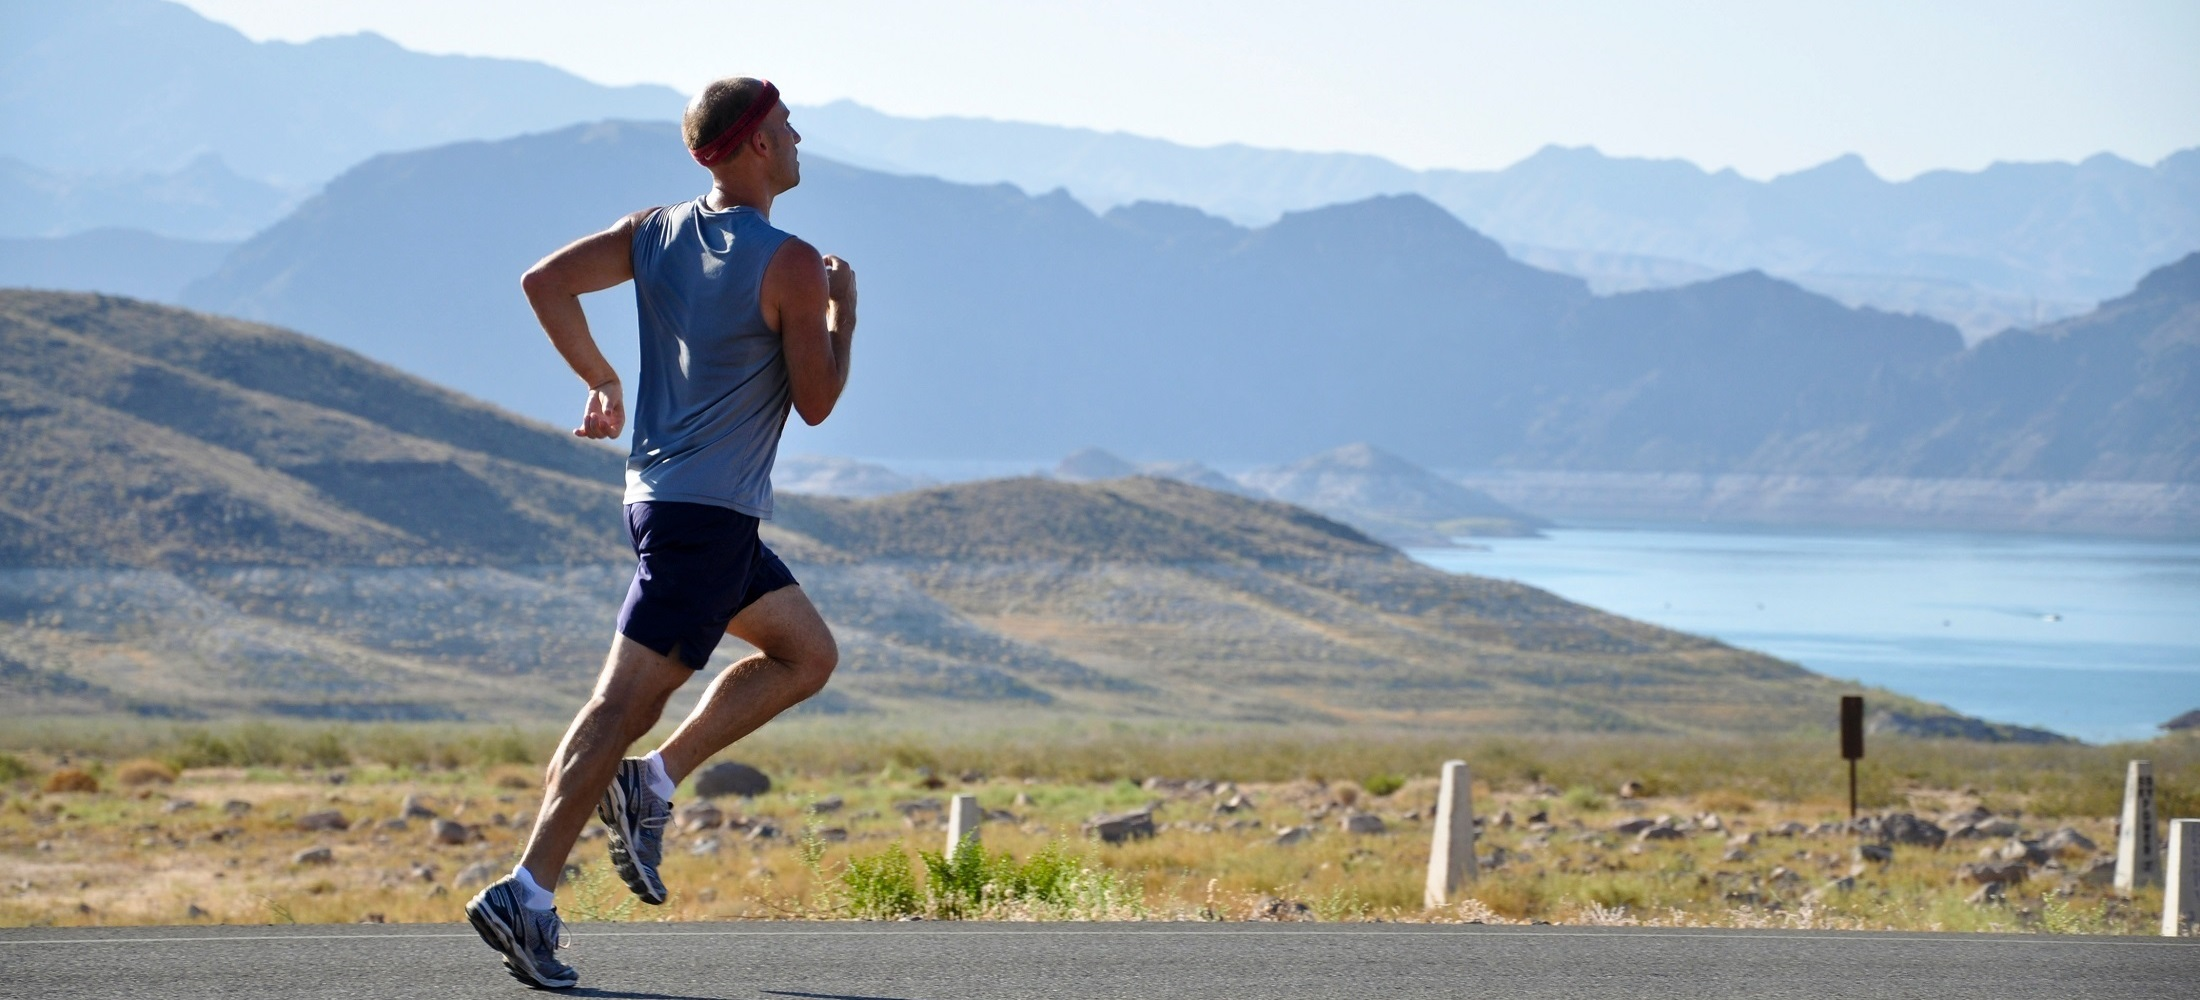
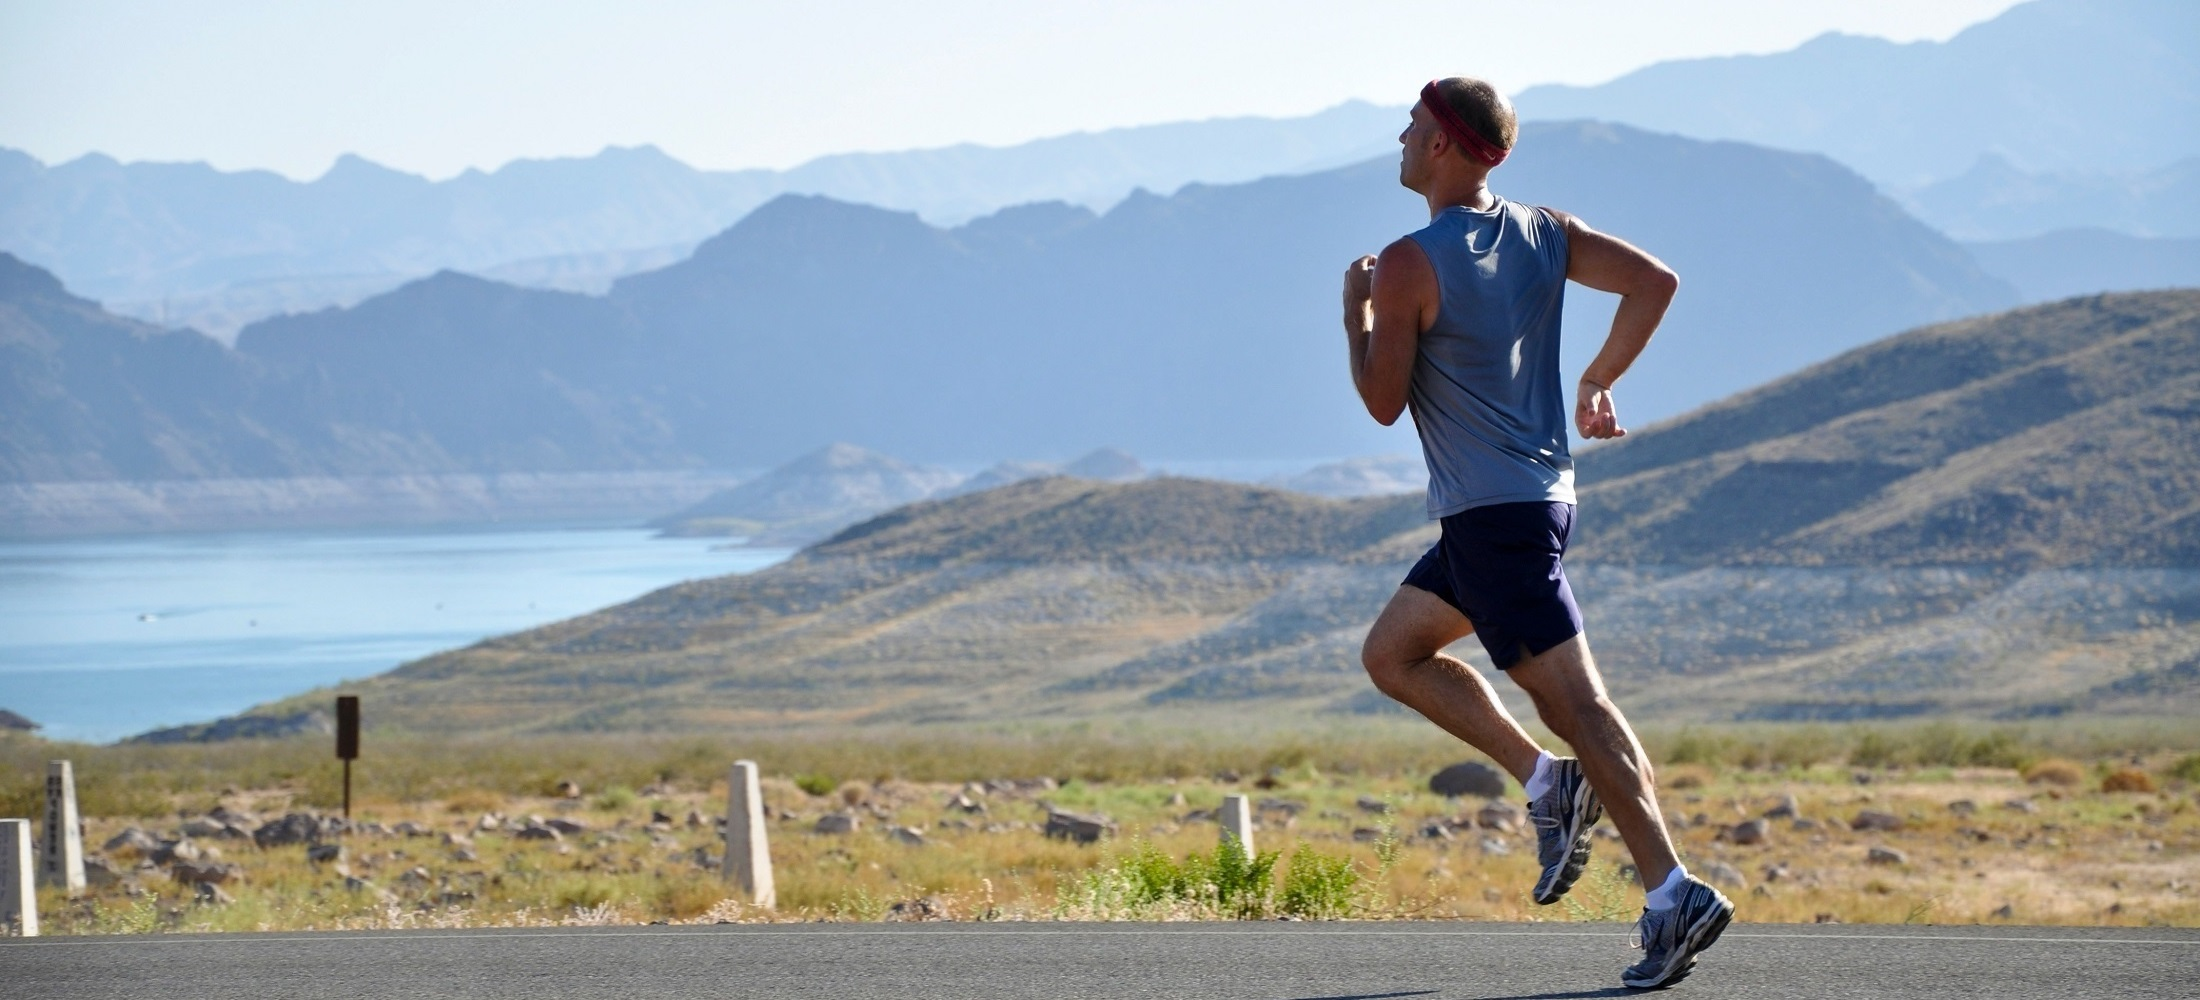
Tiny styling change to font page

diff --git a/workspace/web-client-angular/src/app/landing/initial/initial.component.html b/workspace/web-client-angular/src/app/landing/initial/initial.component.html
@@ -2,18 +2,53 @@
   (carouselLoad)="myfunc($event)">
   <ngx-item NgxCarouselItem class="bannerStyle">
     <div class="carousel">
-      <img style="height: 900px" src="/assets/images/runner.jpeg"/>
+      <div id="textPosition">
+        <h1>
+          Manage your sports
+        </h1>
+        <h2>
+          <ul>
+            Find local teams and clubs
+          </ul>
+          <ul>
+            Organize matches and games
+          </ul>
+          <ul>
+            Find new activities to get involved in
+          </ul>
+          <ul>
+            Compete with others in competitions and ladders
+          </ul>
+        </h2>
+      </div>
+      <img style="width: 100%" src="/assets/images/runner.jpeg"/>
     </div>
 
   </ngx-item>
   <ngx-item NgxCarouselItem class="bannerStyle">
     <div class="carousel">
-      <img style="height: 900px" src="/assets/images/football.jpg"/>
+      <div id="textPosition">
+        <h1>
+          Manage your team
+        </h1>
+        <h2>
+          <ul>
+            Organize matches and games
+          </ul>
+          <ul>
+            Manage team members & find new ones
+          </ul>
+          <ul>
+            Compete with other teams in sport specific competitions
+          </ul>
+        </h2>
+      </div>
+      <img style="width: 100%" src="/assets/images/realFootball.jpg"/>
     </div>
   </ngx-item>
   <ngx-item NgxCarouselItem class="bannerStyle">
     <div class="carousel">
-      <img style="height: 900px" src="/assets/images/runner.jpeg"/>
+      <img style="width: 100%" src="/assets/images/football.jpg"/>
     </div>
   </ngx-item>
 

diff --git a/workspace/web-client-angular/src/app/landing/initial/initial.component.css b/workspace/web-client-angular/src/app/landing/initial/initial.component.css
@@ -1,9 +1,3 @@
-h1{
-  min-height: 200px;
-  background-color: #ccc;
-  text-align: center;
-  line-height: 200px;
-}
 
 carousel{
   min-height: 200px;
@@ -12,11 +6,36 @@ carousel{
   background-color: #ccc;
   text-align: center;
   line-height: 200px;
+  position: relative;
 }
+
+#textPosition {
+  position: absolute;
+  top: 200px;
+  left: 200px;
+  color: #333333;
+  padding: 5px;
+  background-color: transparent;
+}
+
 .leftRs {
-  visibility: hidden;
+  position: absolute;
+  margin: auto;
+  top: 0;
+  bottom: 0;
+  width: 50px;
+  height: 50px;
+  border-radius: 50%;
+  left: 0;
 }
 
 .rightRs {
-  visibility: hidden;
+  position: absolute;
+  margin: auto;
+  top: 0;
+  bottom: 0;
+  width: 50px;
+  height: 50px;
+  border-radius: 50%;
+  right: 0;
 }

diff --git a/workspace/web-client-angular/src/app/landing/initial/initial.component.ts b/workspace/web-client-angular/src/app/landing/initial/initial.component.ts
@@ -13,7 +13,7 @@ export class InitialComponent implements OnInit {
     grid: {xs: 1, sm: 1, md: 1, lg: 1, all: 0},
     slide: 1,
     speed: 400,
-    interval: 4000,
+    //interval: 4000,
     point: {
       visible: true
     },
